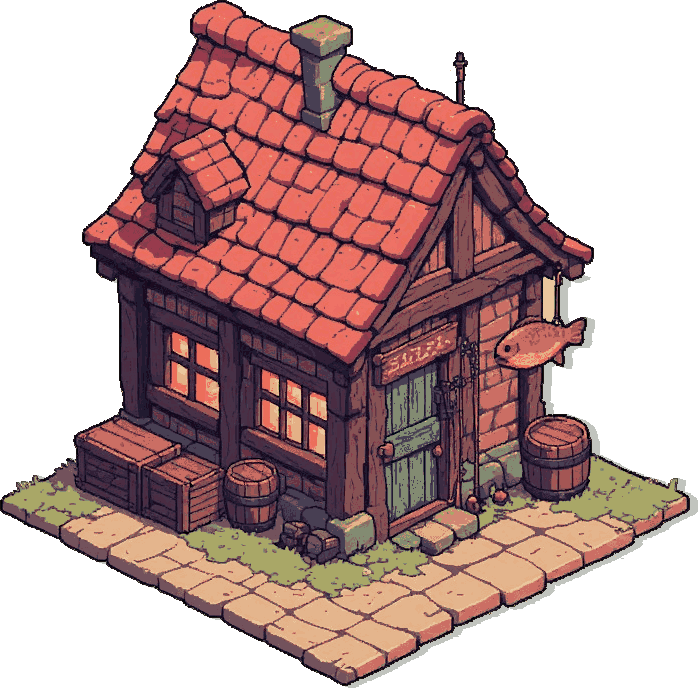
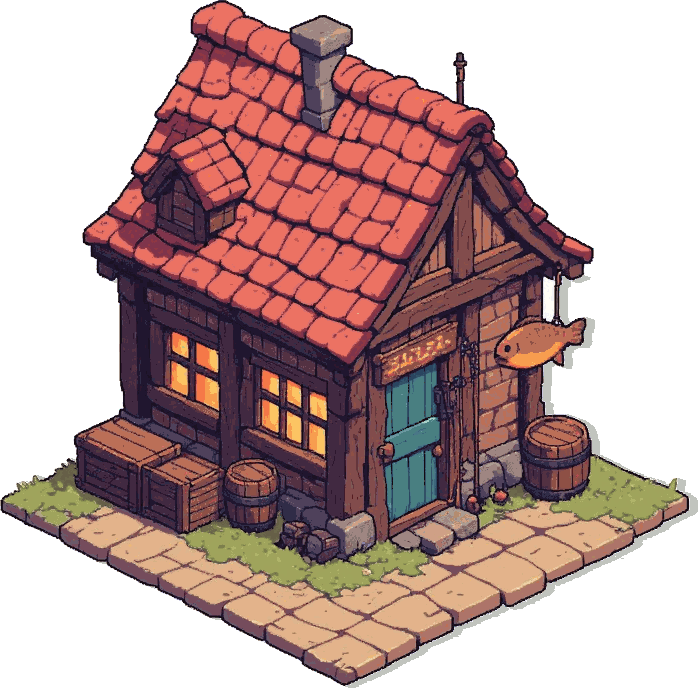
clean_ai v2: shared cozy palette (Lab), block-mode downscale, keep source outline
Claude-Session: https://claude.ai/code/session_01UfpJh2yGrDMaNfv5mQuco1

diff --git a/tools/pixel-art/clean_ai.py b/tools/pixel-art/clean_ai.py
@@ -1,32 +1,72 @@
-"""AI çıktısını oyun tarzına oturt: beyaz arka planı sil, zemini kes, ızgaraya indir, palet azalt, renkli kontur.
-Kullanım: python3 clean_ai.py girdi.png cikti.png <zemin_kesme_y> <küçültme> <renk_sayısı>
-  örn: python3 clean_ai.py balikci.png balikci_temiz.png 600 4.4 28"""
-import sys
-import os; sys.path.insert(0, os.path.dirname(os.path.abspath(__file__)))
+"""AI çıktısını oyuna oturt (v2).
+
+1. Beyaz arka planı köşelerden taşma ile siler, istenirse belli bir satırın altını keser.
+2. Her pikseli ortak cozy palete (cozy_palette.json) Lab uzayında en yakın renge eşler:
+   bütün AI binaları aynı renk ailesinde kalır, kırmızı pembeye, yeşil griye kaymaz.
+3. Küçültürken ortalama almaz: her hedef pikselin kapladığı bloktaki EN SIK palet rengini alır.
+   Yeni ara renk çıkmaz, kenarlar keskin kalır.
+4. Kendi konturunu korur (ek kontur çizmez), sadece yer gölgesi ekler.
+
+Kullanım: python3 clean_ai.py girdi.png cikti.png <zemin_kesme_y> <küçültme> [palet.json]
+  örn: python3 clean_ai.py ai-src/balikci_2.png ../../client/Assets/Art/Custom/Buildings/balikci_ai_2.png 9999 2.0
+  küçültme: 768 px'lik görseli kaç kat küçülteceğin (2.0 -> ~384 px).
+"""
+import json, os, sys
+import numpy as np
 from PIL import Image, ImageDraw
-from soften import soften
-src, out, cut_y, scale, ncol = sys.argv[1], sys.argv[2], int(sys.argv[3]), float(sys.argv[4]), int(sys.argv[5])
-im = Image.open(src).convert('RGBA'); W, H = im.size
-# arka plan: köşelerden açık renk taşması
-bg = im.convert('RGB').copy()
-for c in [(0, 0), (W - 1, 0), (0, H - 1), (W - 1, H - 1)]:
-    ImageDraw.floodfill(bg, c, (255, 0, 255), thresh=40)
-px = im.load(); b = bg.load()
-for y in range(H):
-    for x in range(W):
-        if b[x, y] == (255, 0, 255) or y > cut_y: px[x, y] = (0, 0, 0, 0)
-im = im.crop(im.getbbox())
-w, h = round(im.width / scale), round(im.height / scale)
-small = im.resize((w, h), Image.BOX)
-a = small.split()[3].point(lambda v: 255 if v > 140 else 0)
-rgb = small.convert('RGB').quantize(ncol, method=Image.MEDIANCUT, dither=Image.NONE).convert('RGB')
-small = rgb.convert('RGBA'); small.putalpha(a)
-small = soften(small, outline_dark=(40, 28, 22), inner=False)
-# zemin gölgesi
-sh = Image.new('RGBA', (small.width + 10, small.height + 4), (0, 0, 0, 0)); sp = sh.load(); sa = small.load()
-for y in range(small.height):
-    for x in range(small.width):
-        if sa[x, y][3] and y > small.height * 0.4:
-            for k in range(1, 9):
-                if x + k < sh.width and y + k // 3 < sh.height: sp[x + k, y + k // 3] = (30, 40, 20, 70)
-sh.alpha_composite(small, (0, 0)); sh = sh.crop(sh.getbbox()); sh.save(out); print(out, sh.size)
+
+HERE = os.path.dirname(os.path.abspath(__file__))
+sys.path.insert(0, HERE)
+from cozy_palette import srgb_to_lab
+
+
+def load_palette(path):
+    cols = json.load(open(path))['colors']
+    return np.array([[int(c[i:i + 2], 16) for i in (1, 3, 5)] for c in cols], float)
+
+
+def main(src, out, cut_y, scale, pal_path):
+    pal = load_palette(pal_path); pal_lab = srgb_to_lab(pal)
+    im = Image.open(src).convert('RGBA'); W, H = im.size
+    bg = im.convert('RGB').copy()
+    for c in [(0, 0), (W - 1, 0), (0, H - 1), (W - 1, H - 1)]:
+        ImageDraw.floodfill(bg, c, (255, 0, 255), thresh=40)
+    rgb = np.asarray(im.convert('RGB'), float)
+    alpha = ~np.all(np.asarray(bg) == (255, 0, 255), axis=-1)
+    alpha[cut_y + 1:, :] = False
+    ys, xs = np.where(alpha); y0, y1, x0, x1 = ys.min(), ys.max() + 1, xs.min(), xs.max() + 1
+    rgb, alpha = rgb[y0:y1, x0:x1], alpha[y0:y1, x0:x1]
+
+    # palete eşle (Lab, en yakın)
+    lab = srgb_to_lab(rgb.reshape(-1, 3))
+    idx = np.empty(len(lab), int)
+    for s in range(0, len(lab), 65536):
+        d = ((lab[s:s + 65536, None, :] - pal_lab[None]) ** 2).sum(-1); idx[s:s + 65536] = d.argmin(1)
+    idx = idx.reshape(alpha.shape)
+
+    # blok başına en sık renk
+    h, w = alpha.shape; ow, oh = max(1, round(w / scale)), max(1, round(h / scale))
+    xb = np.linspace(0, w, ow + 1).round().astype(int); yb = np.linspace(0, h, oh + 1).round().astype(int)
+    outp = np.zeros((oh, ow, 4), np.uint8)
+    for j in range(oh):
+        for i in range(ow):
+            a = alpha[yb[j]:yb[j + 1], xb[i]:xb[i + 1]]
+            if a.mean() < 0.5: continue
+            v = idx[yb[j]:yb[j + 1], xb[i]:xb[i + 1]][a]
+            k = np.bincount(v).argmax()
+            outp[j, i, :3] = pal[k]; outp[j, i, 3] = 255
+    small = Image.fromarray(outp, 'RGBA')
+
+    # yer gölgesi (sağ alt), sonra görsel
+    sh = Image.new('RGBA', (small.width + 10, small.height + 4), (0, 0, 0, 0)); sp = sh.load(); sa = small.load()
+    for y in range(small.height):
+        for x in range(small.width):
+            if sa[x, y][3] and y > small.height * 0.4:
+                for k in range(1, 9):
+                    if x + k < sh.width and y + k // 3 < sh.height: sp[x + k, y + k // 3] = (30, 40, 20, 70)
+    sh.alpha_composite(small, (0, 0)); sh = sh.crop(sh.getbbox()); sh.save(out); print(out, sh.size)
+
+
+if __name__ == '__main__':
+    a = sys.argv[1:]
+    main(a[0], a[1], int(a[2]), float(a[3]), a[4] if len(a) > 4 and a[4].endswith('.json') else os.path.join(HERE, 'cozy_palette.json'))

diff --git a/tools/pixel-art/cozy_palette.py b/tools/pixel-art/cozy_palette.py
@@ -1,0 +1,67 @@
+"""Ortak cozy palet: zemin paletleri (ground.py, STYLE=cozy) + AI kaynak görsellerinden (ai-src/*.png)
+Lab uzayında k-means ile seçilen renkler. Bütün AI binaları bu palete eşlenir: hepsi aynı renk ailesinde kalır.
+Çalıştır: python3 tools/pixel-art/cozy_palette.py  ->  tools/pixel-art/cozy_palette.json (+ önizleme png)
+"""
+import glob, json, os, sys
+import numpy as np
+from PIL import Image
+
+HERE = os.path.dirname(os.path.abspath(__file__))
+N_AI = int(os.environ.get('N_AI', '40'))
+
+def srgb_to_lab(rgb):
+    c = rgb / 255.0
+    c = np.where(c > 0.04045, ((c + 0.055) / 1.055) ** 2.4, c / 12.92)
+    M = np.array([[0.4124, 0.3576, 0.1805], [0.2126, 0.7152, 0.0722], [0.0193, 0.1192, 0.9505]])
+    xyz = c @ M.T / np.array([0.95047, 1.0, 1.08883])
+    f = np.where(xyz > 0.008856, np.cbrt(xyz), 7.787 * xyz + 16 / 116)
+    return np.stack([116 * f[..., 1] - 16, 500 * (f[..., 0] - f[..., 1]), 200 * (f[..., 1] - f[..., 2])], -1)
+
+def kmeans(x, k, it=25, seed=1):
+    r = np.random.default_rng(seed)
+    c = x[r.choice(len(x), k, replace=False)]
+    for _ in range(it):
+        d = ((x[:, None, :] - c[None]) ** 2).sum(-1); a = d.argmin(1)
+        for j in range(k):
+            m = a == j
+            if m.any(): c[j] = x[m].mean(0)
+    return c, a
+
+def ground_colors():
+    sys.path.insert(0, HERE)
+    src = open(os.path.join(HERE, 'ground.py')).read()
+    i = src.index('if COZY:'); j = src.index('FLOWERS = [')
+    ns = {}
+    exec(src[src.index('def hx'):src.index('\n', src.index('def hx'))], ns)
+    exec('COZY = True\n' + src[i:j], ns)
+    out = []
+    for k in ('G', 'D', 'SN', 'SAND', 'WATER', 'PAVE', 'STONE'): out += [c[:3] for c in ns[k]]
+    return out
+
+def ai_colors():
+    px = []
+    for f in sorted(glob.glob(os.path.join(HERE, 'ai-src', '*.png'))):
+        im = np.asarray(Image.open(f).convert('RGB'), float).reshape(-1, 3)
+        im = im[(im.min(1) < 235)]                       # beyaz arka plan dışarıda
+        px.append(im[::7])
+    x = np.concatenate(px)
+    lab = srgb_to_lab(x)
+    c, a = kmeans(lab, N_AI)
+    # her kümenin Lab merkezine en yakın gerçek pikseli al (uydurma renk olmasın)
+    out = []
+    for j in range(N_AI):
+        m = a == j
+        if not m.any(): continue
+        idx = np.where(m)[0][((lab[m] - c[j]) ** 2).sum(1).argmin()]
+        out.append(tuple(int(v) for v in x[idx]))
+    return out
+
+if __name__ == '__main__':
+    pal = []
+    for c in ground_colors() + ai_colors():
+        c = tuple(int(v) for v in c)
+        if c not in pal: pal.append(c)
+    json.dump({'colors': ['#%02x%02x%02x' % c for c in pal]}, open(os.path.join(HERE, 'cozy_palette.json'), 'w'), indent=0)
+    sw = Image.new('RGB', (16 * 12, 16 * ((len(pal) + 11) // 12)))
+    for i, c in enumerate(pal): sw.paste(c, ((i % 12) * 16, (i // 12) * 16, (i % 12) * 16 + 16, (i // 12) * 16 + 16))
+    sw.save(os.path.join(HERE, 'cozy_palette.png')); print(len(pal), 'renk')
